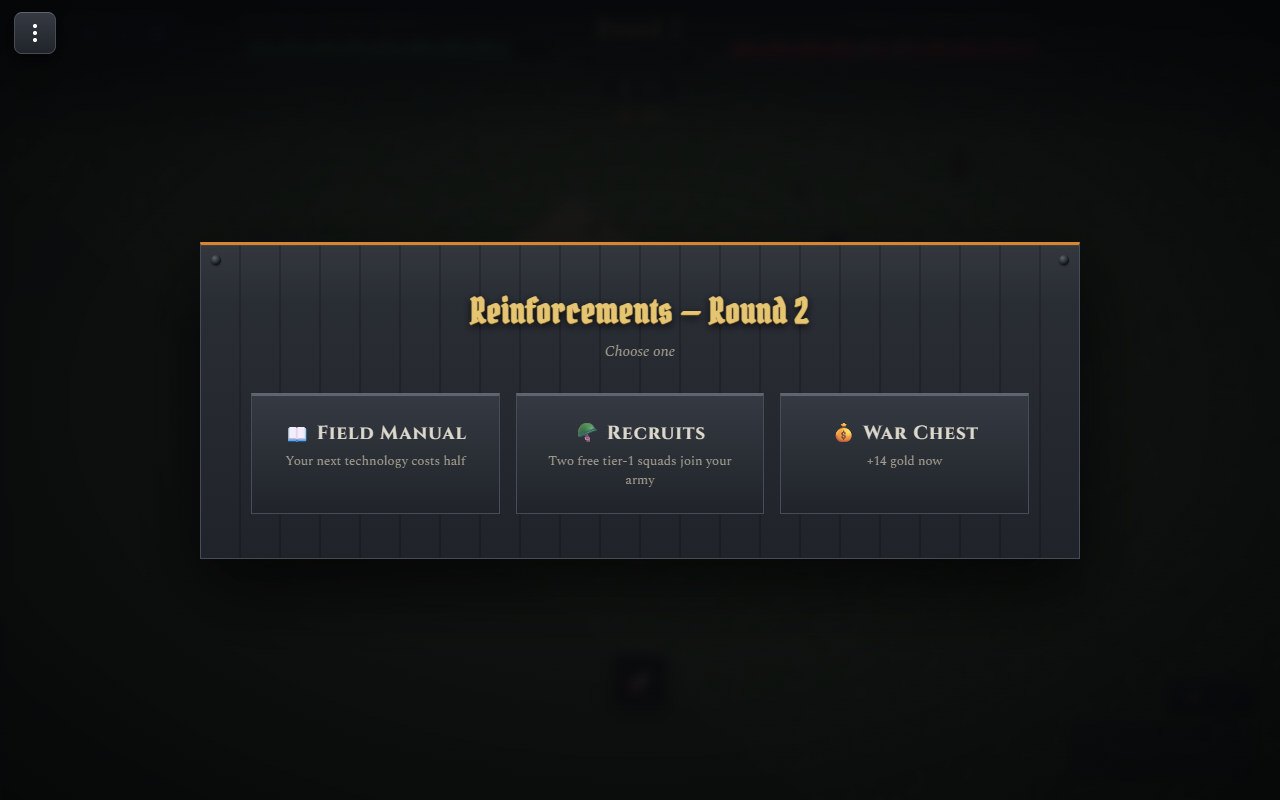
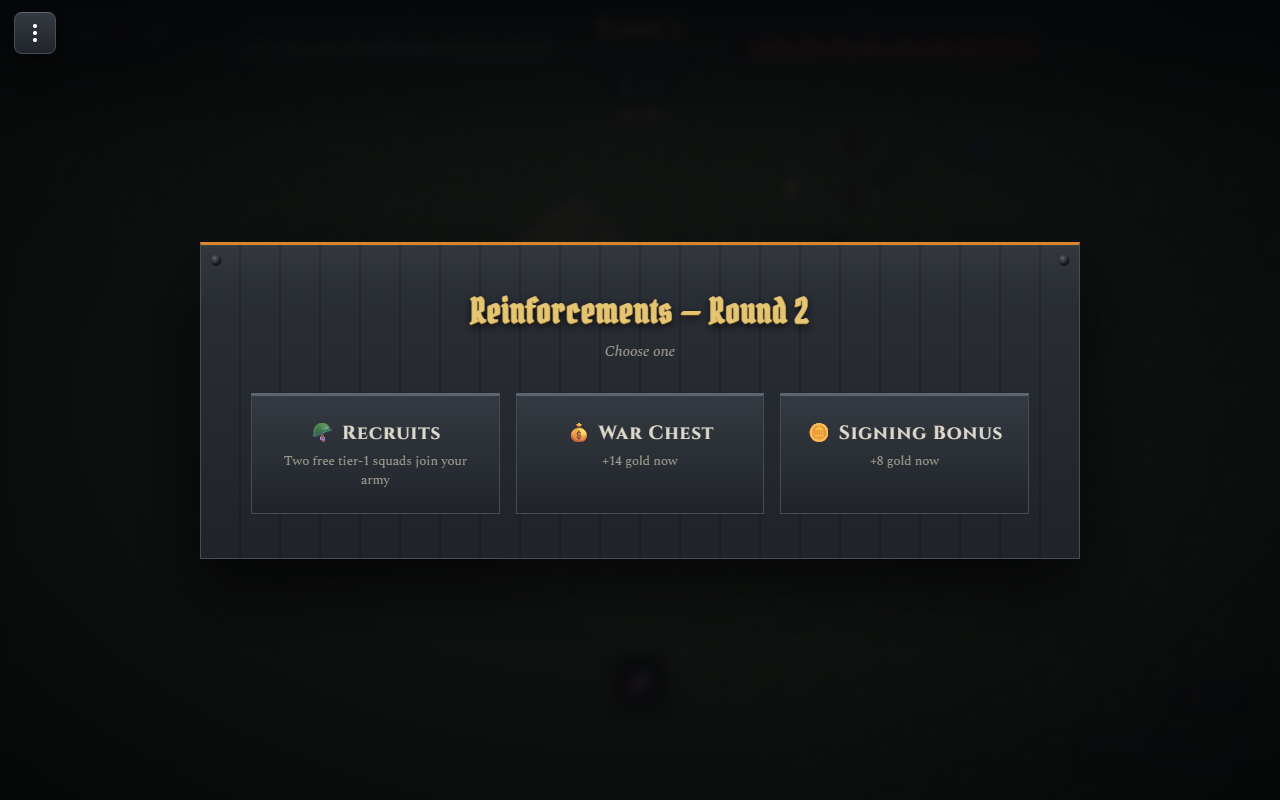
HeroArena: Mechabellum-ratio tier stats + impactful counter web
Stats now scale with price (T1 baseline, T2 2x, T3 3x, T4 4x) shaped by role,
and four counter axes make matchups decisive instead of stat-checks:

- Flat armor eats small PHYSICAL hits: a 22-armor Ancient Treant takes 1 dmg
  per archer arrow — swarms literally cannot scratch walls/giants
- Fire/cold/lightning bypass armor (casters + fire golem melt walls); holy
  and poison damage is unreducible (paladin/scout/trickster shred tanks)
- Alpha strikes check giants: Ballista 260/hit range 320, Crossbowman
  100/hit range 240 — armor negligible, but wasted overkill on chaff
- Splash checks massed squads: fireball projectiles now detonate on direct
  hit (new opt-in splashOnHit flag in global ProjectileSystem, guarded so
  other projects are unaffected) — Apprentice, Goblin Bomber, and the Red
  Dragon (now a ranged fire-breather) burst clusters
- Fast divers (Shadow Assassin 85 spd, Trickster 80) hunt artillery/casters;
  walls (Hoplite 16 armor, Crusader, golems) check divers

Unit value fields aligned to tier prices (35/70/105/140 = price x5) so
sell refunds, level costs, XP worth, and commander damage all agree.

E2E 32/32; headless matches complete (~8 rounds).

Changed region(s): [[0.2188, 0.5312, 0.375, 0.625], [0.4375, 0.5312, 0.5625, 0.5938], [0.625, 0.5312, 0.7812, 0.5938]]

diff --git a/global/collections/scripts/systems/js/ProjectileSystem.js b/global/collections/scripts/systems/js/ProjectileSystem.js
@@ -153,6 +153,7 @@ class ProjectileSystem extends GUTS.BaseSystem {
             weaponRange: trajectory.weaponRange || sourceCombat.range,
             element: projectileElement,
             splashRadius: projectileData.splashRadius || 80,
+            splashOnHit: projectileData.splashOnHit || false,
             sticksInGround: projectileData.sticksInGround || false,
             stickDuration: projectileData.stickDuration || 3,
             isStuck: false,
@@ -795,6 +796,24 @@ class ProjectileSystem extends GUTS.BaseSystem {
             element: reverseEnums.element?.[element] || element,
             targetHealthBefore: targetHealth ? `${targetHealth.current}/${targetHealth.max}` : 'unknown'
         });
+
+        // Splash weapons (opt-in via projectile def `splashOnHit`) detonate on the
+        // target instead of single-target damage — the direct-hit counterpart of
+        // the ballistic ground explosion, so anti-swarm units splash reliably.
+        if (projectile.splashOnHit && projectile.splashRadius > 0) {
+            const targetTransform = this.game.getComponent(targetId, 'transform');
+            const burstPos = targetTransform?.position || _targetPos;
+            this.createGroundExplosion?.(projectileId, burstPos, projectile,
+                burstPos?.y ?? 0);
+            this.call.applySplashDamage(projectile.source, burstPos, damage, element,
+                projectile.splashRadius, {
+                    isProjectile: true,
+                    projectileId: projectileId,
+                    allowFriendlyFire: false
+                });
+            this.destroyProjectile(projectileId);
+            return;
+        }
 
         // Apply damage on both client and server for sync
         this.call.applyDamage( projectile.source, targetId, damage, element, {